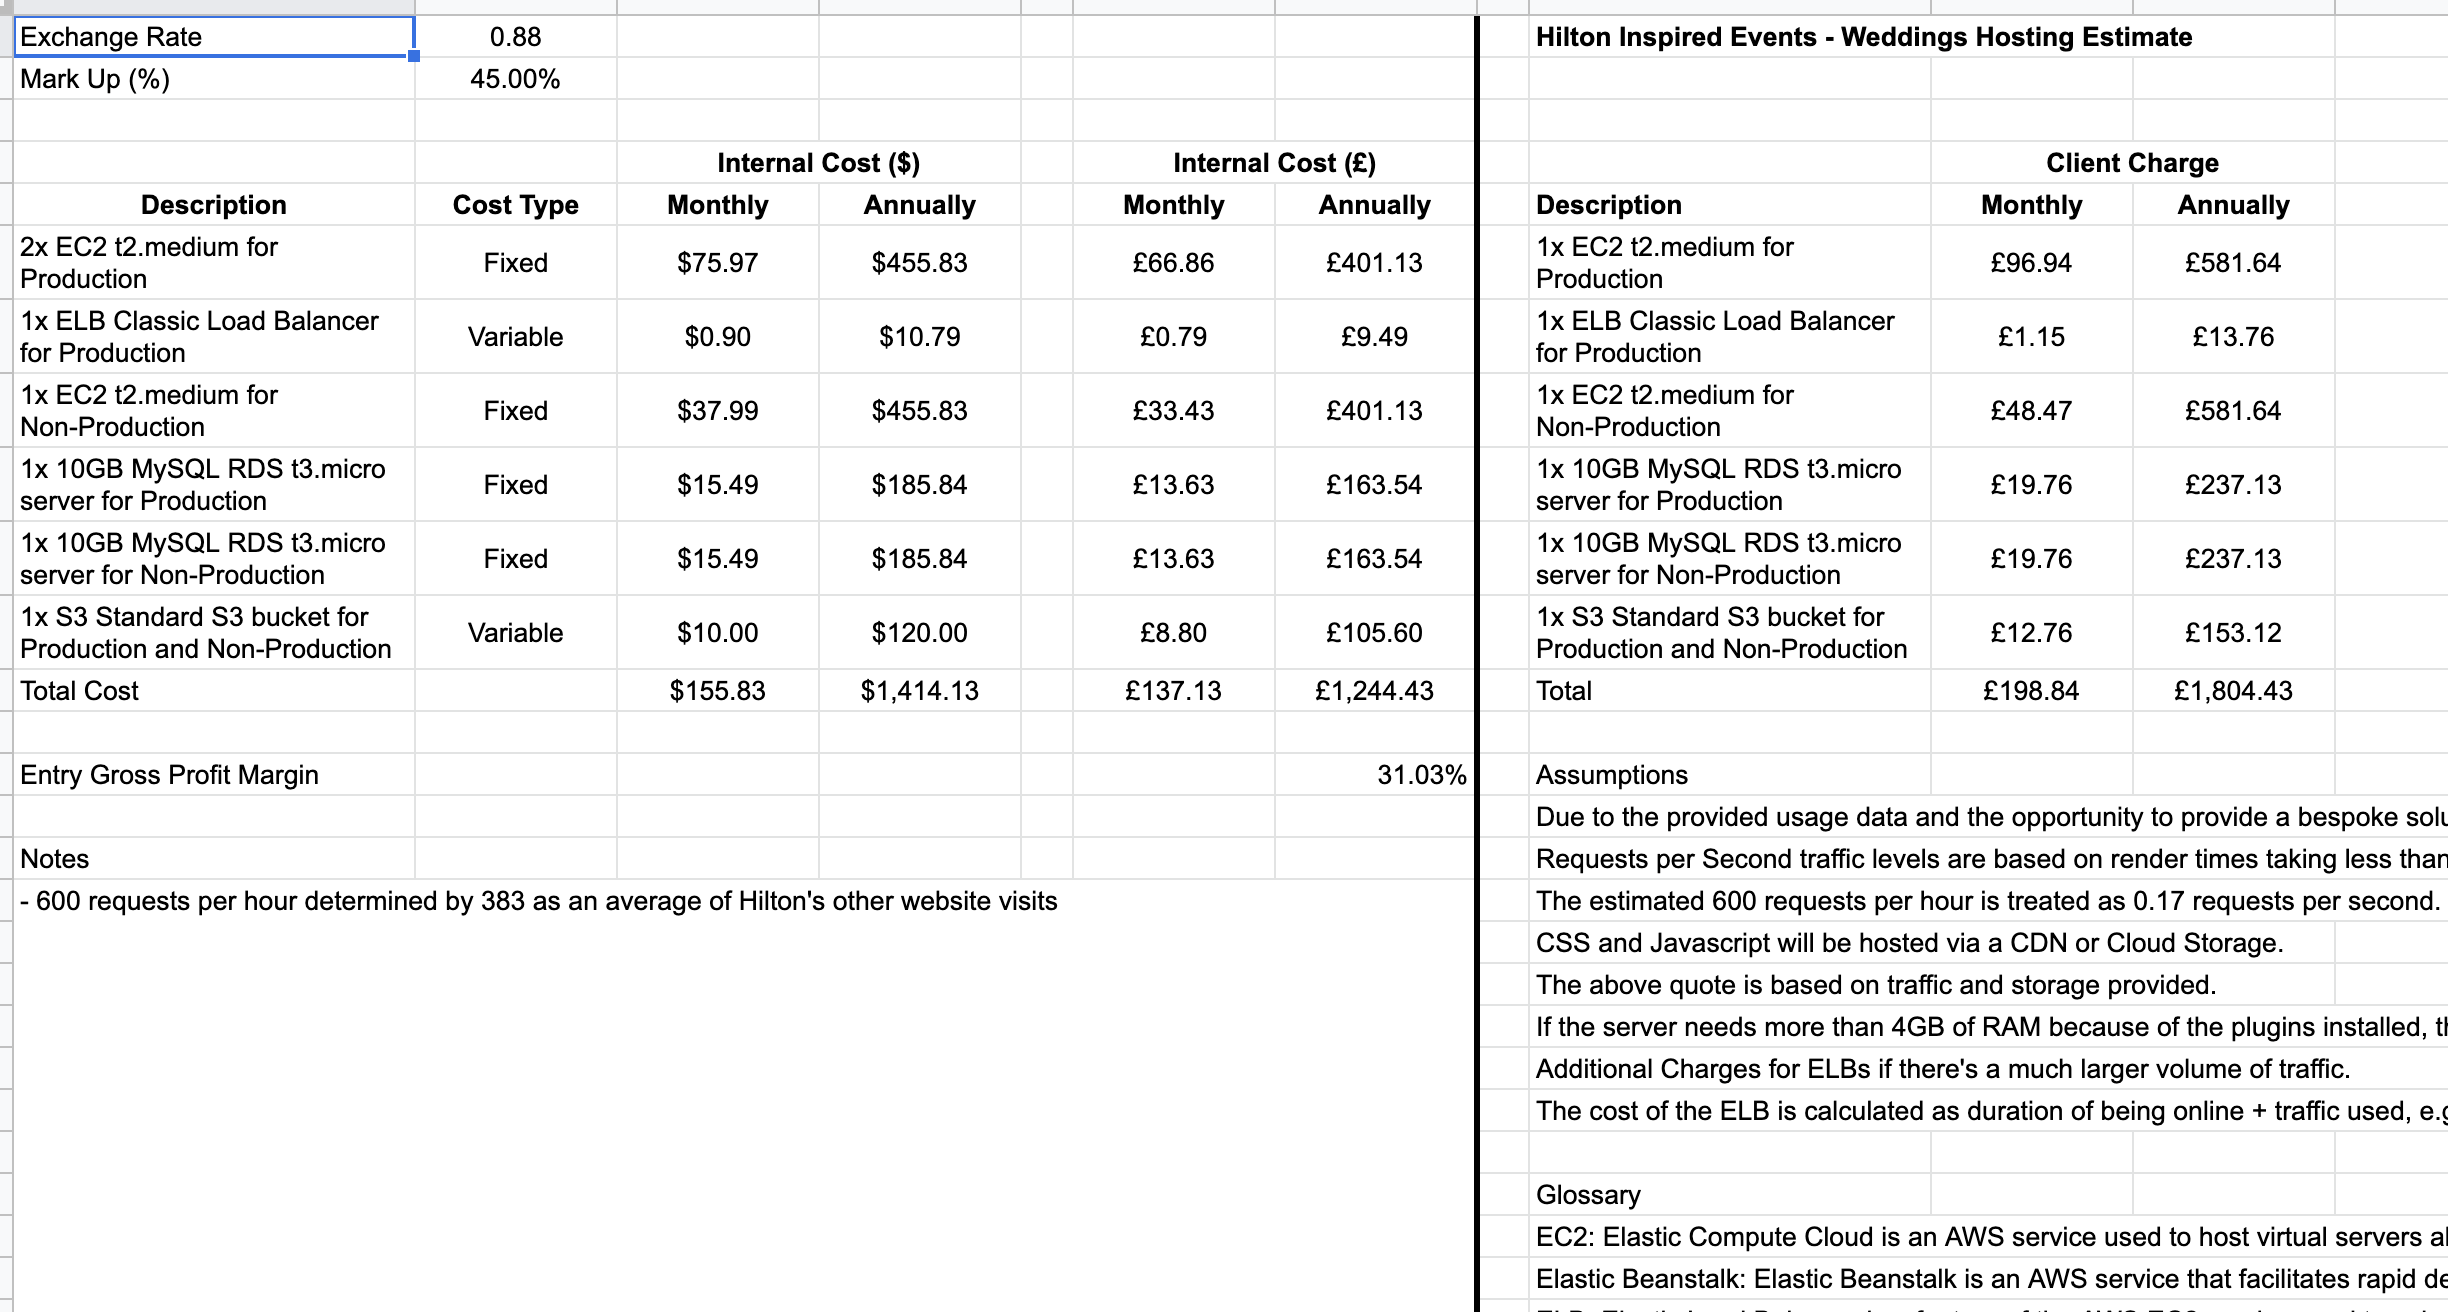
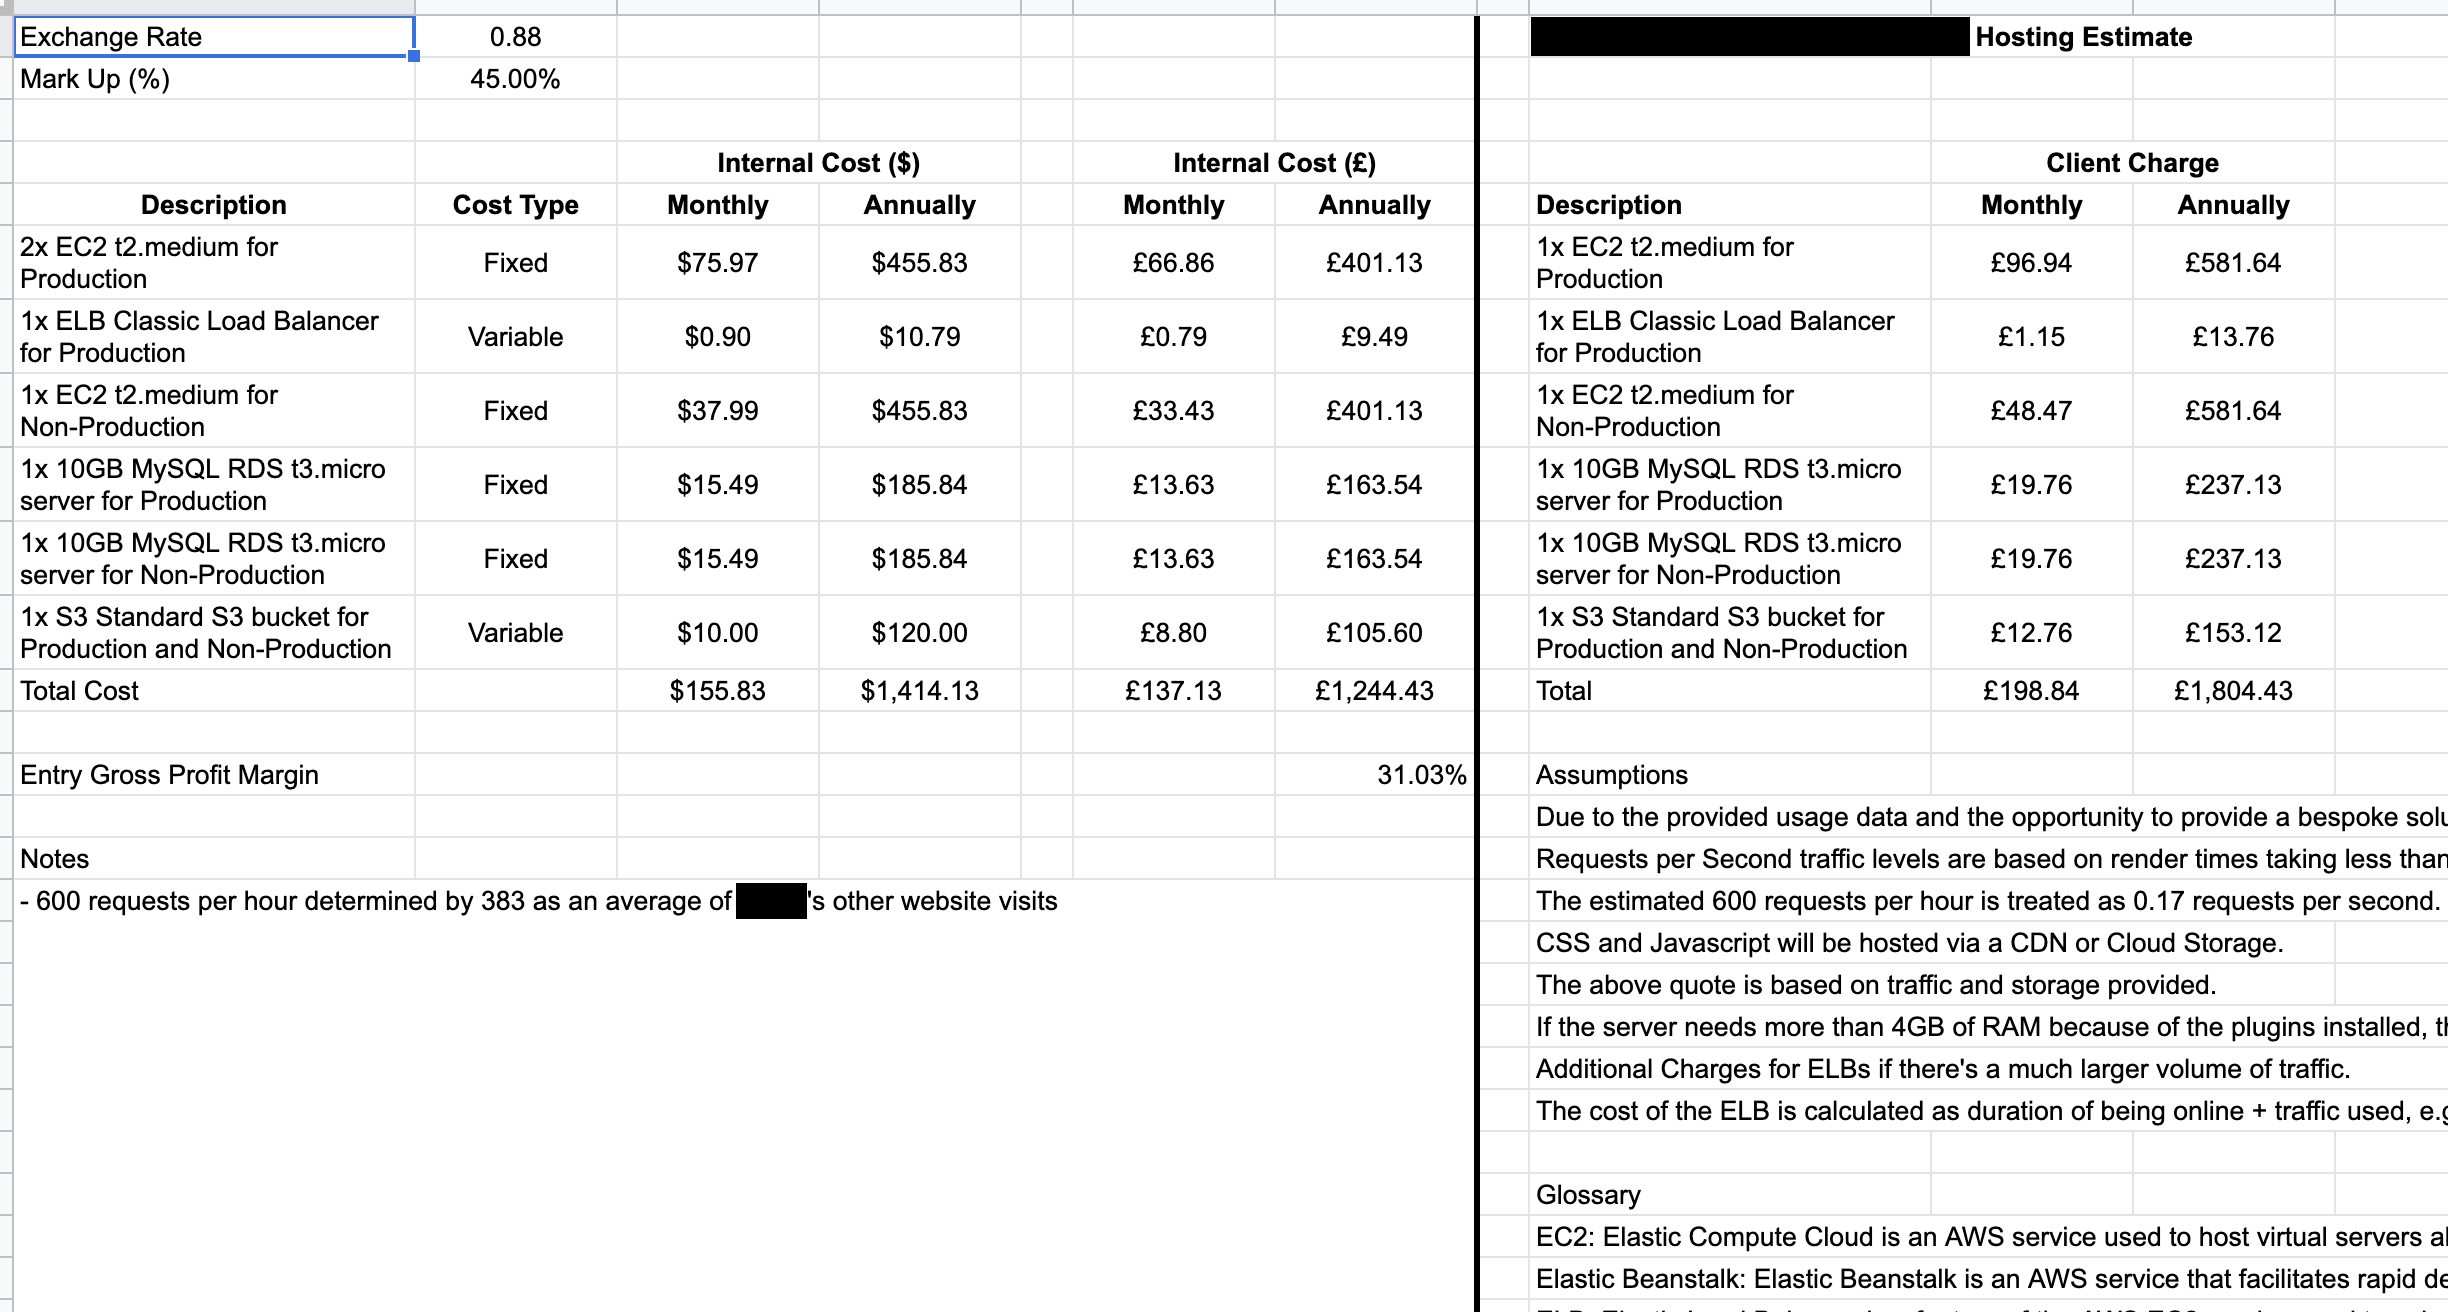
correcting the table of contents structure and updating the Hosting Estimates section

Changed region(s): [[0.6209, 0.0, 0.8072, 0.0625], [0.2794, 0.6562, 0.3415, 0.7188]]

diff --git a/DevOps/Infrastructure/hosting-estimates.md b/DevOps/Infrastructure/hosting-estimates.md
@@ -7,16 +7,16 @@ Hosting estimates are used by Engineering, Finance, and New Business to facilita
 ## How to Generate Hosting Estimates
 By completing this [Google Form](https://docs.google.com/forms/d/e/1FAIpQLScsAvkcgkvUxp_JHr2hqZBIZ1BV9fMHsp7Z6wJBLozCTsqg8w/viewform) you'll be able to automatically generate a Hosting Estimate located in this [Google Drive](https://drive.google.com/drive/u/0/folders/1L86YZafMZ5q8awJEurnXk8iz-cXdbQED) folder. 
 
-Each estimate is catalogued based on the `Client Name`, the first quetsion in the google form. If you have multiple hosting estimates for the same client but under different projects, it's recommended to add the project name too, e.g. [Hilton Inspired Events - Weddings](https://drive.google.com/drive/u/0/folders/1h6tOCErTHTWvAaCycgRQlkE_eqctahSP).
+Each estimate is catalogued based on the `Client Name`, the first quetsion in the google form. If you have multiple hosting estimates for the same client but under different projects, it's recommended to add the project name too, e.g. `Example City Council - Example Project`.
 
-After the estimate is generated you'll be required to add notes for Finance to review, and then send the estimate to Finance asking for a review on the `hosting` slack channel.
+After the estimate is generated you'll be required to add notes, located in the bottom left of the below image, detailing how the estimation was calculated. Afterwards the estimate needs to be sent to Finance, via the `hosting` slack channel, asking for a review. Finance will then handle the estimate from there and forward it on to the relevant parties.
 
 ## Adding Notes
 The below image is that of a Hosting Estimate to accommodate a new website. Everything right of the thick black line is meant for the client, everything to the left is for internal use only.
 
 ![Hosting Estimate Example](/Assets/example-hosting-estimate.png)
 
-Below the `Entry Gross Profit Margin` should be the `Notes` manually added by the DevOps generating the Hosting Estimate. These notes need to include where the quantifiable numbers used to generate the estimate came from, either from the client or internally by 383 based on another project. This information is important as it informs Finance if they need to adjust the `Mark Up (%)`.
+Below the `Entry Gross Profit Margin` should be the `Notes` manually added by the DevOps individual who generated the Hosting Estimate. These notes need to include the quantifiable numbers used to generate the estimate, and how they were obtained (either from the client or internally by 383 based on another project). This information is important as it informs Finance if they need to adjust the `Mark Up (%)` located to the top left of the estimate.
 
 ## The difference Between Server and Serverless Hosting
 Server based hosting is typically a virtual machine running a Linux Operating System, Apache or Nginx, PHP and it's extensions, and Certbot to auto generate Let's Encrypt SSL certificates. This virtual server will be operating 24/7 in order to service the website/webapp.

diff --git a/readme.md b/readme.md
@@ -1,4 +1,4 @@
 # Table of Contents
-- [Infrastructure](./Infrastructure/toc.md)
-    - [DevOps](./Infrastructure/DevOps/toc.md)
-        - [Hosting Estimates](./Infrastructure/DevOps/hosting-estimates.md)
+- [DevOps](./DevOps/toc.md)
+    - [Infrastructure](./DevOps/Infrastructure/toc.md)    
+        - [Hosting Estimates](./DevOps/Infrastructure/hosting-estimates.md)

diff --git a/DevOps/toc.md b/DevOps/toc.md
@@ -1,0 +1,3 @@
+* [Table of Contents](/readme.md)
+    * [Infrastructure](./Infrastructure/toc.md)
+        - [Hosting Estimates](./Infrastructure/hosting-estimates.md)

diff --git a/DevOps/Infrastructure/toc.md b/DevOps/Infrastructure/toc.md
@@ -1,2 +1,2 @@
-* [Table of Contents](../toc.md)
+* [Table of Contents](/readme.md)
     - [Hosting Estimates](./hosting-estimates.md)
